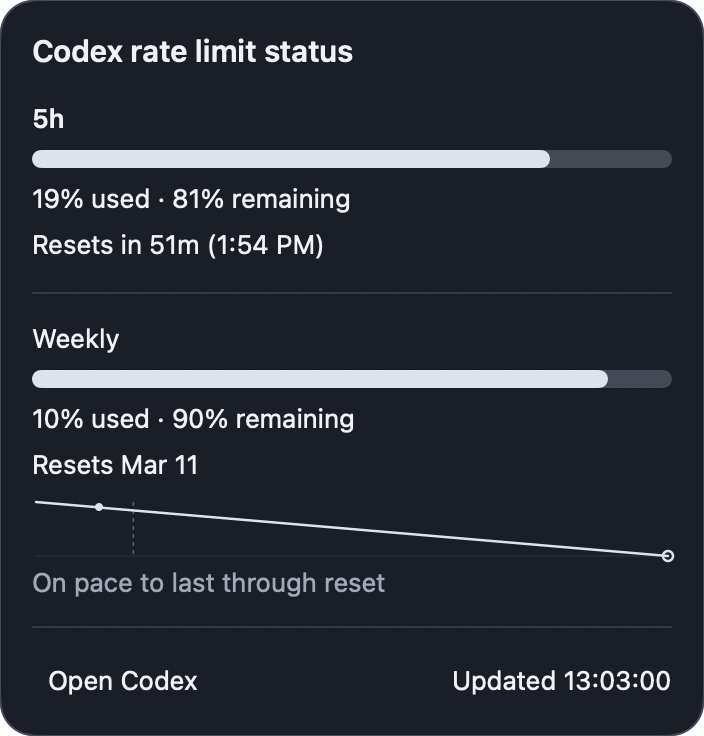
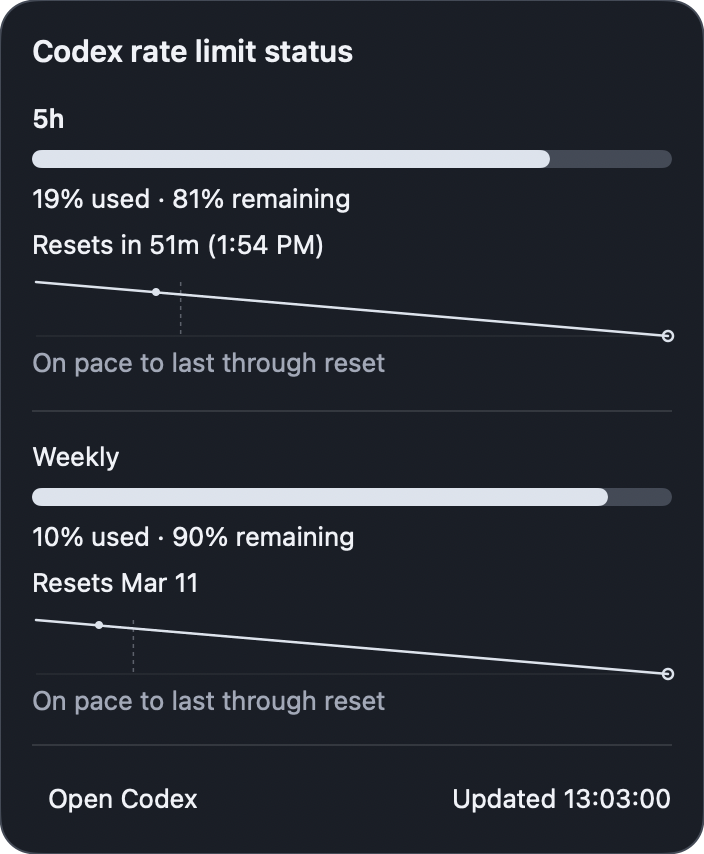
Refresh README and website product screenshots

diff --git a/README.md b/README.md
@@ -57,6 +57,8 @@ That quits `CodexToolbar` if it is running, removes its launch-at-login registra
 
 ## Screenshots
 
+Captured from v0.1.17 using fixed sample data in light and dark mode. The website uses the same projection screenshots.
+
 | Theme | Normal | Warning | Critical | Projection |
 | --- | --- | --- | --- | --- |
 | Light | ![Normal light mode status popover](screenshots/readme-normal-light-popover.png) | ![Warning light mode status popover](screenshots/readme-warning-light-popover.png) | ![Critical light mode status popover](screenshots/readme-critical-light-popover.png) | ![Projection light mode status popover](screenshots/readme-projection-light-popover.png) |
